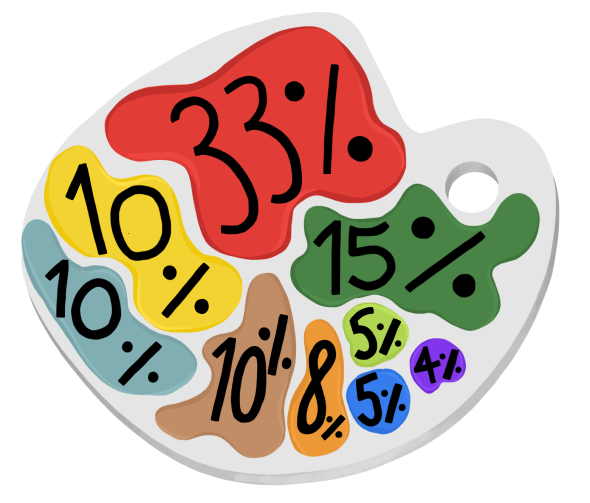
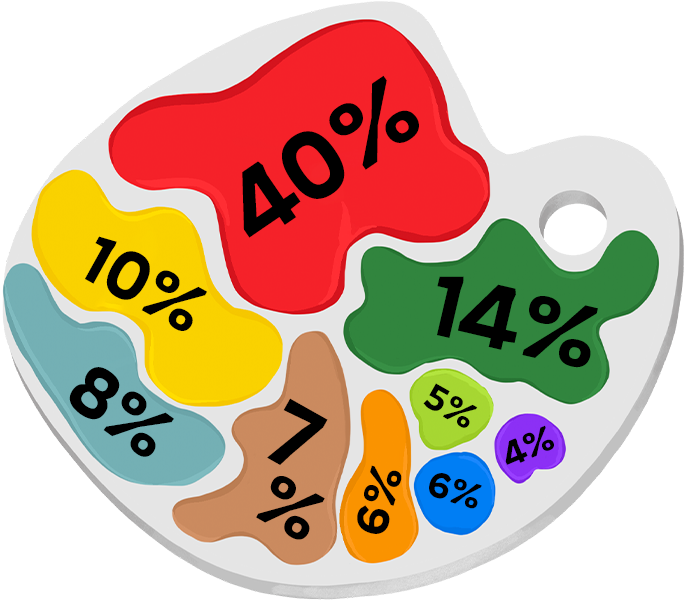
chore: update tokenomics info and godet image

diff --git a/src/components/pages/Home/sections/Tokenomics/index.tsx b/src/components/pages/Home/sections/Tokenomics/index.tsx
@@ -12,22 +12,22 @@ export type TokenomicsProps = HTMLAttributes<HTMLElement>;
 const pools = [
   {
     name: `Play to Earn`,
-    amount: `33%`,
+    amount: `40%`,
     color: `#E13C36`,
   },
   {
     name: `Team`,
-    amount: `15%`,
+    amount: `14%`,
     color: `#498346`,
   },
   {
     name: `Staking`,
-    amount: `10%`,
+    amount: `7%`,
     color: `#C18D66`,
   },
   {
     name: `Marketing`,
-    amount: `10%`,
+    amount: `9%`,
     color: `#F3D331`,
   },
   {
@@ -37,7 +37,7 @@ const pools = [
   },
   {
     name: `Private sale`,
-    amount: `8%`,
+    amount: `6%`,
     color: `#EC9836`,
   },
   {
